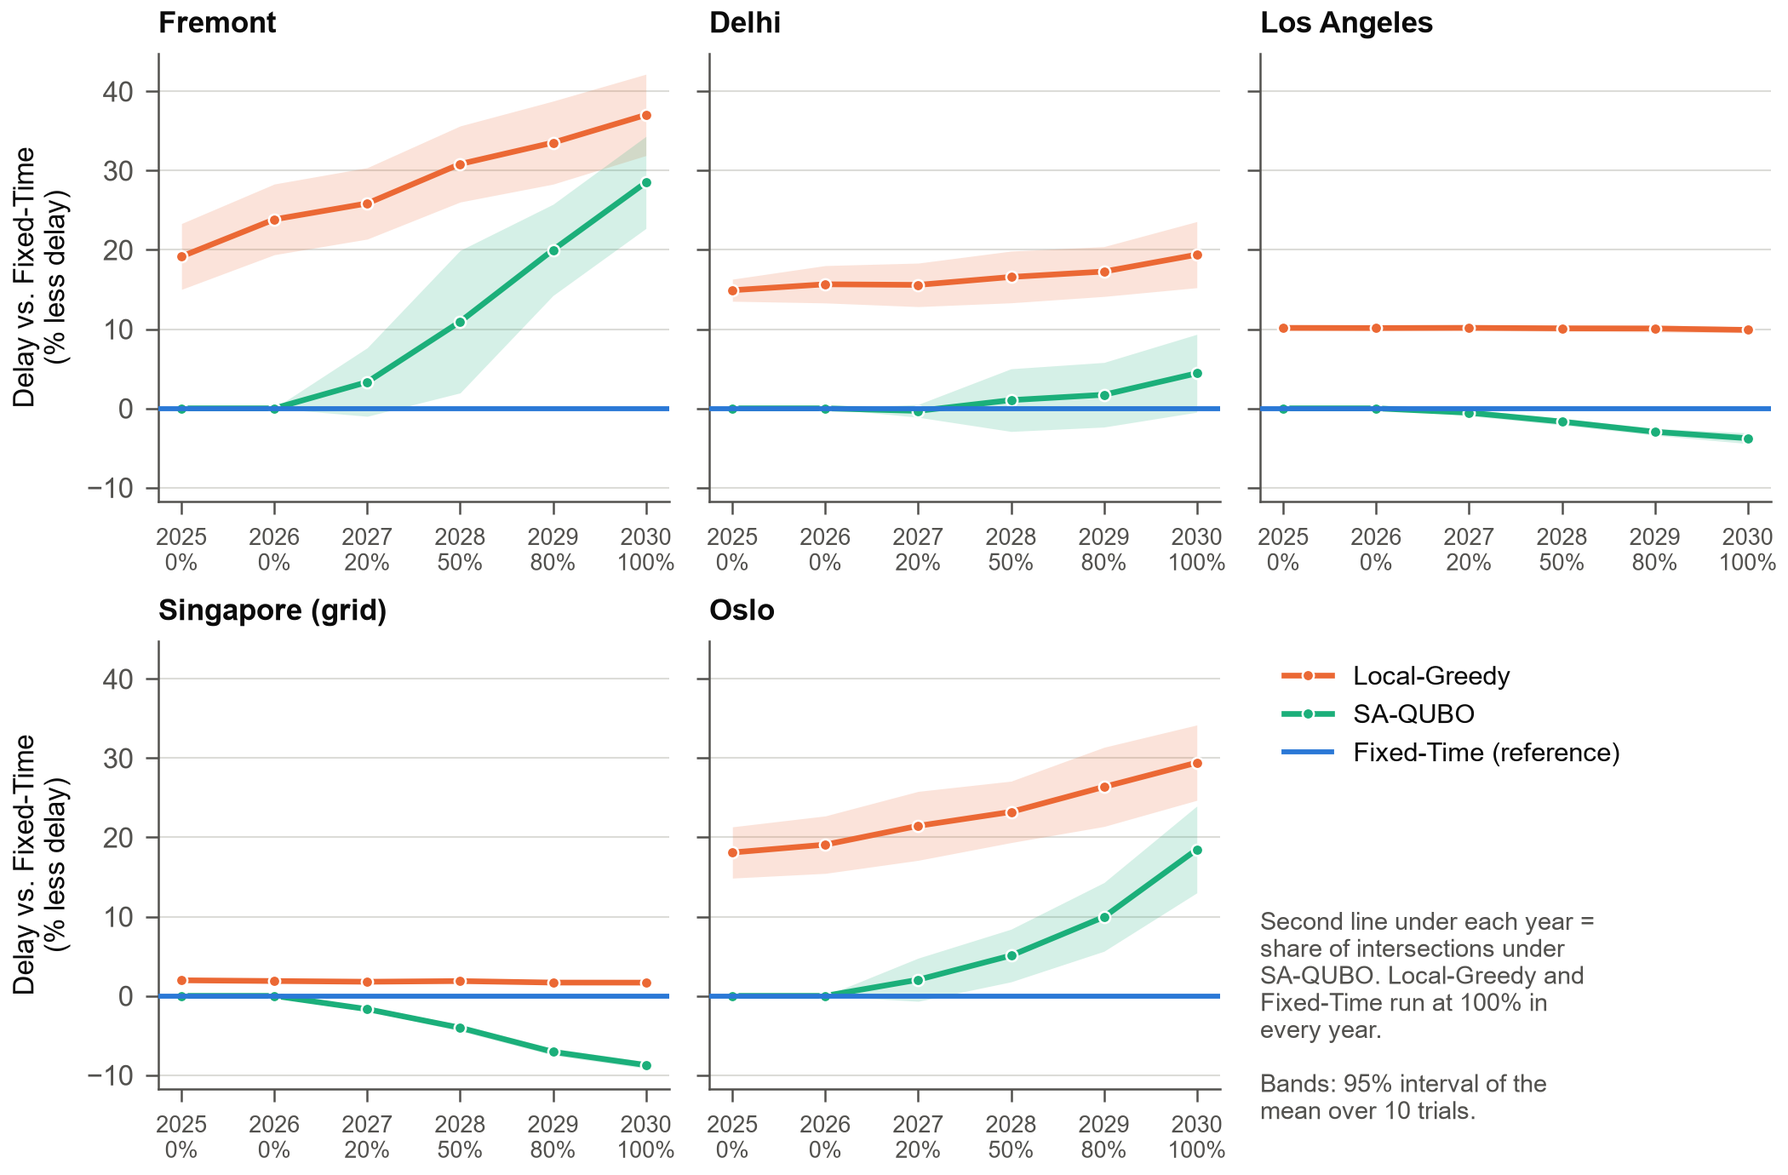
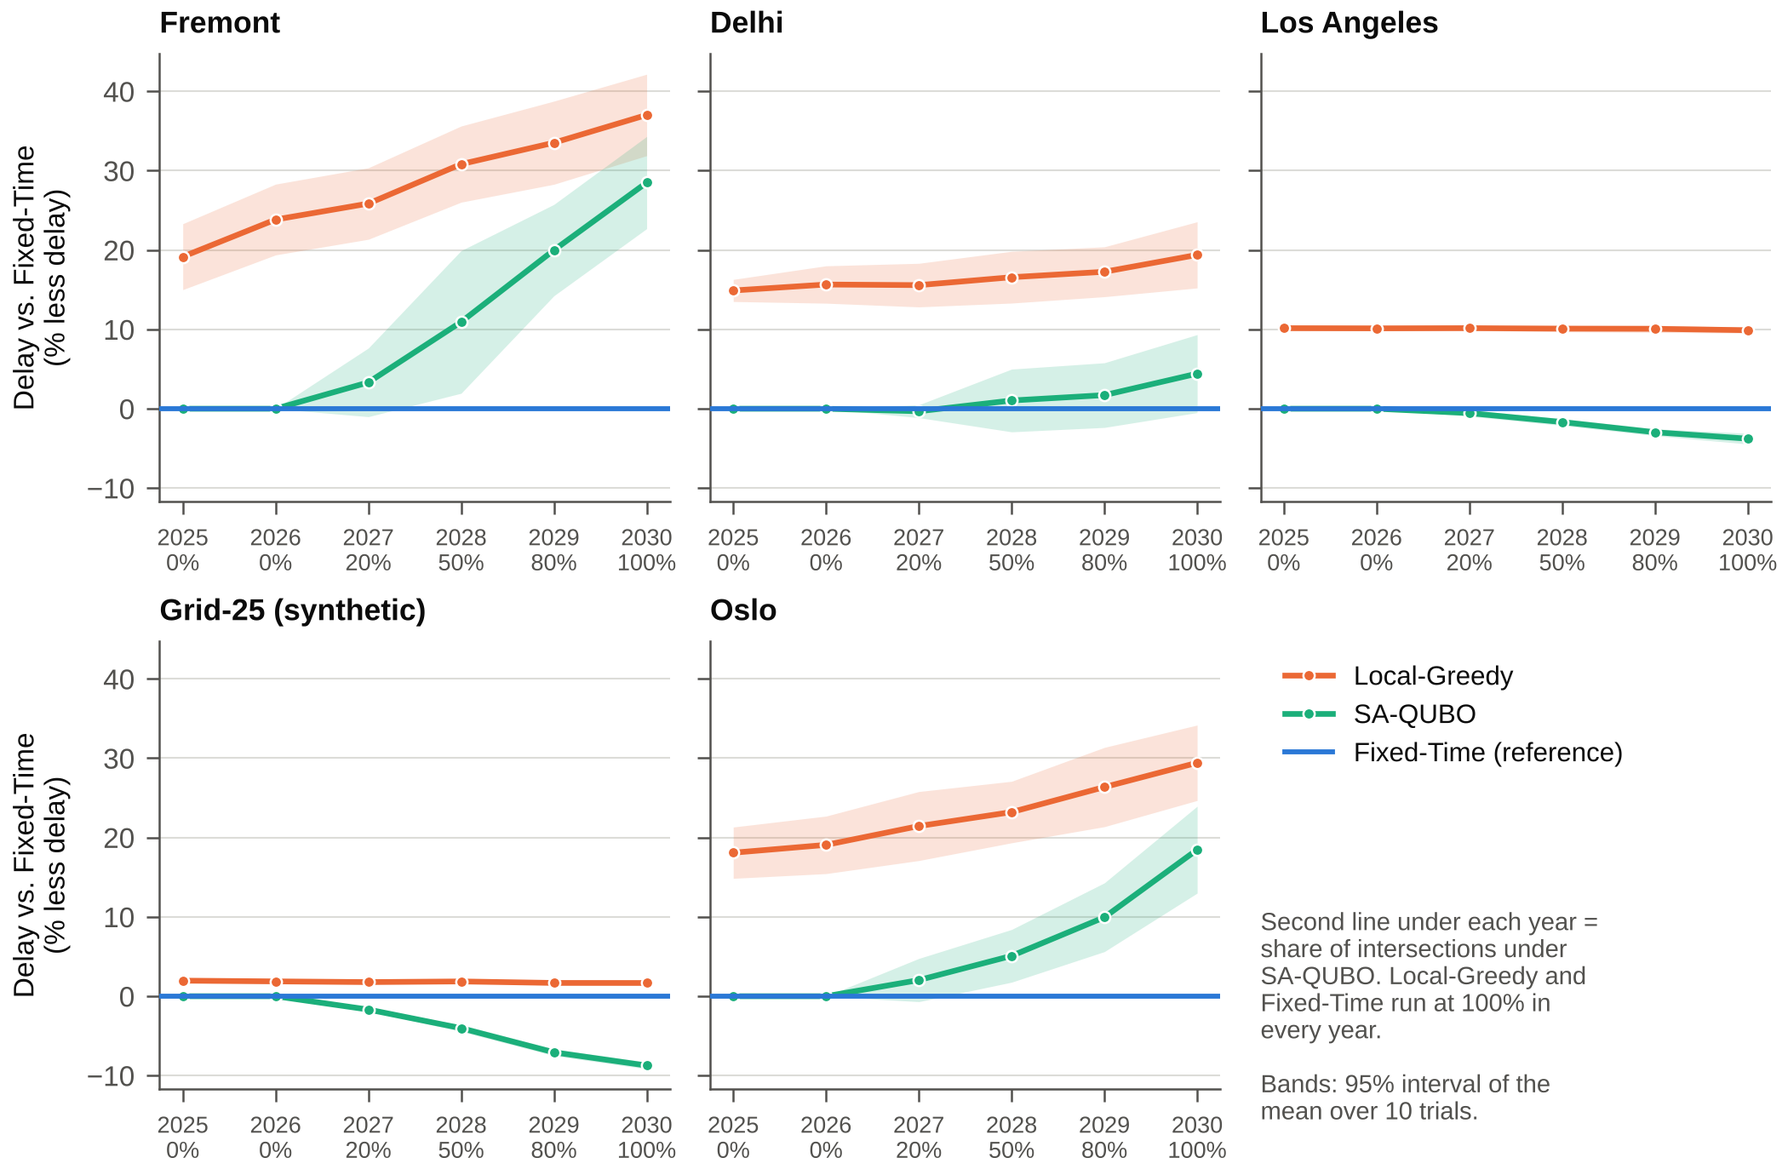
Add paper figures, scripts and attribution; clean up superseded health material
- Replace figures_paper/ with regenerated figures (fifth network labelled
  "Grid-25 (synthetic)", not Singapore)
- Add make_figures.py, paper_numbers.py, verify_headline.py (run from repo root,
  read sim_10seeds/results.csv)
- Fix stale lines in sim_10seeds/README.md and RESULTS.md
- README: OpenStreetMap ODbL credit, note on pooled vs per-trial percentages
  (29.3/19.2/4.9 vs 28.5/18.5/4.4), mark the old description as superseded
- Remove figures/fig11_health_impact.png and fig13_pollution_vs_benefit.png

diff --git a/make_figures.py b/make_figures.py
@@ -1,0 +1,131 @@
+"""Makes the two paper figures from sim_10seeds/results.csv.
+
+Figure 1: 2030 delay by network and controller (a) and % less delay than Fixed-Time (b).
+Figure 2: % less delay than Fixed-Time in the same year, 2025-2030 (adoption ramp), one panel per network.
+
+Run from the repo root:  python make_figures.py   (needs matplotlib and numpy)
+Output: figures_paper/Figure1_main_comparison_2030.png, Figure2_adoption_by_year.png (300 dpi PNG)
+
+Percent method: for each trial, 100 * (Fixed - X) / Fixed using delay in
+vehicle-seconds; then the mean over trials with a 95% t-interval. Positive = less delay than Fixed-Time.
+"""
+import csv, math, statistics as st
+from collections import defaultdict
+from pathlib import Path
+
+import matplotlib
+matplotlib.use("Agg")
+import matplotlib.pyplot as plt
+import numpy as np
+
+HERE = Path(__file__).resolve().parent
+SIM = HERE / "sim_10seeds"
+OUT = HERE / "figures_paper"
+OUT.mkdir(exist_ok=True)
+
+CITIES = ["Fremont", "Delhi", "Los Angeles", "Singapore", "Oslo"]
+# The fifth network is the synthetic 5x5 fallback grid (the OpenStreetMap download for Singapore failed), so it is
+# labelled Grid-25, never Singapore. "Singapore" is only the key used in results.csv.
+LABELS = ["Fremont", "Delhi", "Los Angeles", "Grid-25\n(synthetic)", "Oslo"]
+SHORT = ["Fremont", "Delhi", "Los Angeles", "Grid-25 (synthetic)", "Oslo"]
+CTRL = ["Fixed-Time", "Local-Greedy", "SA-QUBO"]
+# first three slots of the validated categorical palette (all-pairs CVD and normal-vision checks pass)
+COLOR = {"Fixed-Time": "#2a78d6", "Local-Greedy": "#eb6834", "SA-QUBO": "#1baf7a"}
+INK, INK2, GRID = "#0b0b0b", "#52514e", "#dcdcd8"
+ADOPT = {2025: "0%", 2026: "0%", 2027: "20%", 2028: "50%", 2029: "80%", 2030: "100%"}
+
+rows = list(csv.DictReader(open(SIM / "results.csv")))
+NT = len({r["trial"] for r in rows})
+T975 = {2: 4.302652729911275, 9: 2.2621571627409915}[NT - 1]
+g = defaultdict(list)
+for r in rows:
+    g[(r["city"], int(r["year"]), r["controller"])].append(r)
+
+
+def delay(city, year, ctrl):
+    """delay in vehicle-hours per run, one value per trial (sorted by trial)."""
+    return np.array([float(r["delay_vehicle_seconds"]) / 3600 for r in sorted(g[(city, year, ctrl)], key=lambda r: int(r["trial"]))])
+
+
+def less_than_fixed(city, year, ctrl):
+    f, x = delay(city, year, "Fixed-Time"), delay(city, year, ctrl)
+    return 100 * (f - x) / f
+
+
+def mean_ci(a):
+    a = np.asarray(a, dtype=float)
+    return a.mean(), T975 * a.std(ddof=1) / math.sqrt(len(a))
+
+
+plt.rcParams.update({
+    "font.family": ["Arial", "Liberation Sans", "DejaVu Sans"], "font.size": 8, "axes.labelsize": 8, "axes.titlesize": 8.5,
+    "axes.edgecolor": INK2, "axes.labelcolor": INK, "xtick.color": INK2, "ytick.color": INK2, "text.color": INK,
+    "axes.spines.top": False, "axes.spines.right": False, "axes.linewidth": 0.6,
+    "xtick.major.width": 0.6, "ytick.major.width": 0.6, "savefig.dpi": 300, "figure.dpi": 100,
+    "axes.facecolor": "white", "figure.facecolor": "white", "legend.frameon": False,
+})
+
+
+def style(ax):
+    ax.grid(axis="y", color=GRID, lw=0.5)
+    ax.set_axisbelow(True)
+
+
+# ------------------------------------------------------------------ Figure 1
+fig, axs = plt.subplots(1, 2, figsize=(7.0, 3.1), gridspec_kw={"width_ratios": [1.05, 1]}, layout="constrained")
+
+ax = axs[0]
+w = 0.26
+for k, c in enumerate(CTRL):
+    stats = [mean_ci(delay(city, 2030, c)) for city in CITIES]
+    ax.bar(np.arange(5) + (k - 1) * w, [s[0] for s in stats], w * 0.92, yerr=[s[1] for s in stats],
+           color=COLOR[c], label=c, error_kw=dict(lw=0.7, capsize=1.5, capthick=0.7, ecolor=INK2), zorder=3)
+ax.set_xticks(range(5), LABELS, fontsize=7)
+ax.set_ylabel("Delay per 12-hour run (vehicle-hours)")
+ax.set_title("(a) Delay, 2030", loc="left", fontweight="bold")
+ax.legend(fontsize=7.5, loc="upper center", bbox_to_anchor=(0.47, 1.0), handlelength=1.2)
+style(ax)
+
+ax = axs[1]
+w = 0.34
+for k, c in enumerate(["Local-Greedy", "SA-QUBO"]):
+    stats = [mean_ci(less_than_fixed(city, 2030, c)) for city in CITIES]
+    ax.bar(np.arange(5) + (k - 0.5) * w, [s[0] for s in stats], w * 0.92, yerr=[s[1] for s in stats],
+           color=COLOR[c], label=c, error_kw=dict(lw=0.7, capsize=1.5, capthick=0.7, ecolor=INK2), zorder=3)
+ax.axhline(0, color=INK2, lw=0.7, zorder=4)
+ax.set_xticks(range(5), LABELS, fontsize=7)
+ax.set_ylabel("Delay vs. Fixed-Time (% less delay)")
+ax.set_title("(b) Change vs. Fixed-Time, 2030", loc="left", fontweight="bold")
+ax.legend(fontsize=7.5, loc="upper right", handlelength=1.2)
+style(ax)
+fig.savefig(OUT / "Figure1_main_comparison_2030.png")
+plt.close(fig)
+
+# ------------------------------------------------------------------ Figure 2
+years = list(range(2025, 2031))
+fig, axs = plt.subplots(2, 3, figsize=(7.0, 4.6), sharey=True, layout="constrained")
+flat = axs.ravel()
+for i, city in enumerate(CITIES):
+    ax = flat[i]
+    for c in ["Local-Greedy", "SA-QUBO"]:
+        st_ = [mean_ci(less_than_fixed(city, y, c)) for y in years]
+        m = np.array([s[0] for s in st_])
+        h = np.array([s[1] for s in st_])
+        ax.fill_between(years, m - h, m + h, color=COLOR[c], alpha=0.18, lw=0, zorder=2)
+        ax.plot(years, m, color=COLOR[c], lw=1.6, marker="o", ms=3.2, mec="white", mew=0.6, zorder=3, label=c)
+    ax.axhline(0, color=COLOR["Fixed-Time"], lw=1.4, zorder=3, label="Fixed-Time (reference)")
+    ax.set_xticks(years, [f"{y}\n{ADOPT[y]}" for y in years], fontsize=6.5)
+    ax.set_title(SHORT[i], loc="left", fontweight="bold")
+    style(ax)
+    if i % 3 == 0:
+        ax.set_ylabel("Delay vs. Fixed-Time\n(% less delay)")
+ax = flat[5]
+ax.axis("off")
+handles, labels = flat[0].get_legend_handles_labels()
+ax.legend(handles, labels, loc="upper left", fontsize=7.5, handlelength=1.8)
+ax.text(0.0, 0.40, f"Second line under each year =\nshare of intersections under\nSA-QUBO. Local-Greedy and\nFixed-Time run at 100% in\nevery year.\n\nBands: 95% interval of the\nmean over {NT} trials.",
+        transform=ax.transAxes, fontsize=7, color=INK2, va="top")
+fig.savefig(OUT / "Figure2_adoption_by_year.png")
+plt.close(fig)
+
+print("wrote", sorted(p.name for p in OUT.glob("*.png")), f"(n = {NT} trials, t = {T975:.3f})")

diff --git a/paper_numbers.py b/paper_numbers.py
@@ -1,0 +1,131 @@
+"""Every number in the paper's results tables, computed from sim_10seeds/results.csv (900 runs).
+
+Pure standard library. Run:  python paper_numbers.py
+Convention: "% less delay than Fixed-Time", positive = better, mean of per-trial values.
+The fifth network is stored in results.csv under the key "Singapore". It is the synthetic 5x5 fallback grid
+(the OpenStreetMap download failed), so it is reported as "Grid-25 (synthetic)".
+"""
+import csv, itertools, math, statistics as st
+from pathlib import Path
+
+HERE = Path(__file__).resolve().parent
+CITIES = ["Fremont", "Delhi", "Los Angeles", "Singapore", "Oslo"]
+NAME = {"Singapore": "Grid-25 (synthetic)"}
+CTRL = ["Fixed-Time", "Local-Greedy", "SA-QUBO"]
+YEARS = list(range(2025, 2031))
+T975 = 2.2621571627409915  # t, 9 degrees of freedom
+
+rows = list(csv.DictReader(open(HERE / "sim_10seeds" / "results.csv")))
+D, W, A = {}, {}, {}
+for r in rows:
+    k = (r["city"], int(r["year"]), r["controller"], int(r["trial"]))
+    D[k] = float(r["delay_vehicle_seconds"])
+    W[k] = float(r["wait_seconds_per_injected_vehicle"])
+    A[k] = float(r["arrivals"])
+N = len({k[3] for k in D})
+assert len(rows) == 900 and N == 10
+
+
+def delay_h(city, year, ctrl):
+    return [D[(city, year, ctrl, t)] / 3600 for t in range(N)]
+
+
+def less(city, year, ctrl, base="Fixed-Time"):
+    """per-trial % less delay than base (positive = ctrl better)"""
+    return [100 * (D[(city, year, base, t)] - D[(city, year, ctrl, t)]) / D[(city, year, base, t)] for t in range(N)]
+
+
+def extra(city, year, ctrl="SA-QUBO", base="Local-Greedy"):
+    """per-trial % more delay than base (positive = ctrl worse)"""
+    return [100 * (D[(city, year, ctrl, t)] - D[(city, year, base, t)]) / D[(city, year, base, t)] for t in range(N)]
+
+
+def mean_ci(v):
+    m = st.mean(v)
+    h = T975 * st.stdev(v) / math.sqrt(len(v))
+    return m, m - h, m + h
+
+
+def sign_p(v):
+    """exact two-sided sign test"""
+    pos, n = sum(x > 0 for x in v), sum(x != 0 for x in v)
+    k = min(pos, n - pos)
+    return min(1.0, 2 * sum(math.comb(n, i) for i in range(k + 1)) / 2 ** n)
+
+
+def wilcoxon_p(v):
+    """exact two-sided Wilcoxon signed-rank test (no zeros or ties expected with continuous delays)"""
+    v = [x for x in v if x != 0]
+    order = sorted(range(len(v)), key=lambda i: abs(v[i]))
+    rank = {i: r + 1 for r, i in enumerate(order)}
+    wplus = sum(rank[i] for i in range(len(v)) if v[i] > 0)
+    total = len(v) * (len(v) + 1) / 2
+    obs = abs(wplus - total / 2)
+    hits = sum(abs(sum(r for r, s in zip(range(1, len(v) + 1), signs) if s) - total / 2) >= obs - 1e-12
+               for signs in itertools.product([0, 1], repeat=len(v)))
+    return hits / 2 ** len(v)
+
+
+def table3():
+    out = []
+    for c in CITIES:
+        ms = {k: (st.mean(delay_h(c, 2030, k)), st.stdev(delay_h(c, 2030, k)),
+                  st.mean(W[(c, 2030, k, t)] for t in range(N))) for k in CTRL}
+        out.append(dict(city=NAME.get(c, c), stats=ms, sa=mean_ci(less(c, 2030, "SA-QUBO")),
+                        wins_greedy=sum(x > 0 for x in less(c, 2030, "Local-Greedy")),
+                        wins_sa=sum(x > 0 for x in less(c, 2030, "SA-QUBO"))))
+    return out
+
+
+def table4():
+    out = []
+    for c in CITIES:
+        sa = less(c, 2030, "SA-QUBO")
+        out.append(dict(city=NAME.get(c, c), greedy=mean_ci(less(c, 2030, "Local-Greedy")), sa=mean_ci(sa),
+                        extra=mean_ci(extra(c, 2030)), sign=sign_p(sa), wilcoxon=wilcoxon_p(sa),
+                        greedy_beats_sa=sum(x > 0 for x in extra(c, 2030))))
+    return out
+
+
+def by_year(city, ctrl):
+    return [st.mean(less(city, y, ctrl)) for y in YEARS]
+
+
+def fixed_growth(city):
+    """(Fixed-Time delay 2030 / 2025, vehicles injected 2030 / 2025), means over trials"""
+    d = st.mean(delay_h(city, 2030, "Fixed-Time")) / st.mean(delay_h(city, 2025, "Fixed-Time"))
+    a = st.mean(A[(city, 2030, "Fixed-Time", t)] for t in range(N)) / st.mean(A[(city, 2025, "Fixed-Time", t)] for t in range(N))
+    return d, a
+
+
+def unanimous_comparisons():
+    """of the 15 paired 2030 comparisons (5 networks x 3 controller pairs), how many agree in all 10 trials"""
+    n = 0
+    for c in CITIES:
+        for v in (less(c, 2030, "Local-Greedy"), less(c, 2030, "SA-QUBO"), extra(c, 2030)):
+            n += sum(x > 0 for x in v) in (0, N)
+    return n
+
+
+if __name__ == "__main__":
+    print(f"runs: {len(rows)}; vehicles injected over all runs: {sum(A.values()):,.0f}")
+    print("\nTable 3 (2030, 100% adoption): delay veh-h mean +/- SD | delay per vehicle (s)")
+    for r in table3():
+        s = r["stats"]
+        print(f"  {r['city']:20s}", " | ".join(f"{k}: {s[k][0]:,.0f} +/- {s[k][1]:.0f}, {s[k][2]:.1f} s" for k in CTRL),
+              f"| less delay than Fixed-Time in {r['wins_greedy']}/10 (Local-Greedy), {r['wins_sa']}/10 (SA-QUBO)")
+    print("\nTable 4 (2030): % less delay than Fixed-Time [95% CI]; SA-QUBO extra delay vs Local-Greedy; exact p (SA-QUBO vs Fixed-Time)")
+    f = lambda t: f"{t[0]:+.1f} [{t[1]:+.1f}, {t[2]:+.1f}]"
+    for r in table4():
+        print(f"  {r['city']:20s} Local-Greedy {f(r['greedy'])} | SA-QUBO {f(r['sa'])} | extra {f(r['extra'])} | "
+              f"sign p={r['sign']:.5f} Wilcoxon p={r['wilcoxon']:.5f} | Local-Greedy beats SA-QUBO in {r['greedy_beats_sa']}/10")
+    print(f"\nLocal-Greedy beats SA-QUBO in {sum(r['greedy_beats_sa'] for r in table4())} of {5 * N} paired 2030 trials")
+    print(f"comparisons unanimous across 10 trials: {unanimous_comparisons()} of 15")
+    print("\n% less delay than Fixed-Time by year, 2025-2030 (SA-QUBO adoption 0, 0, 20, 50, 80, 100%)")
+    for c in CITIES:
+        print(f"  {NAME.get(c, c):20s} SA-QUBO", [round(x, 1) + 0.0 for x in by_year(c, "SA-QUBO")],
+              " Local-Greedy", [round(x, 1) for x in by_year(c, "Local-Greedy")])
+    print("\nFixed-Time delay growth 2025 -> 2030 vs demand growth")
+    for c in CITIES:
+        d, a = fixed_growth(c)
+        print(f"  {NAME.get(c, c):20s} delay x{d:.2f}, vehicles x{a:.2f}")

diff --git a/verify_headline.py b/verify_headline.py
@@ -1,0 +1,41 @@
+"""Independent spot-check of the paper's headline numbers from sim_10seeds/results.csv.
+Run from the repo root: python verify_headline.py
+"""
+import csv, collections, statistics as st
+
+rows = list(csv.DictReader(open("sim_10seeds/results.csv")))
+print("rows:", len(rows))
+d = {}
+for r in rows:
+    d[(r["city"], int(r["year"]), r["controller"], int(r["trial"]))] = float(r["delay_vehicle_seconds"])
+cities = sorted({k[0] for k in d})
+T = 2.262  # t, df=9
+
+
+def pct_less(city, year, ctrl, base):
+    v = []
+    for t in range(10):
+        b = d[(city, year, base, t)]
+        v.append(100 * (b - d[(city, year, ctrl, t)]) / b)
+    m = st.mean(v)
+    h = T * st.stdev(v) / 10 ** 0.5
+    return m, m - h, m + h, sum(x > 0 for x in v)
+
+
+print("\n2030 % less delay (mean, 95% lo, hi, wins/10)")
+for c in cities:
+    for ctrl in ("Local-Greedy", "SA-QUBO"):
+        m, lo, hi, w = pct_less(c, 2030, ctrl, "Fixed-Time")
+        print(f"{c:12s} {ctrl:12s} vs Fixed  {m:6.1f} ({lo:6.1f},{hi:6.1f}) {w}/10")
+    g = sum(d[(c, 2030, "SA-QUBO", t)] > d[(c, 2030, "Local-Greedy", t)] for t in range(10))
+    print(f"{c:12s} Greedy beats QUBO in {g}/10 trials")
+
+print("\n2030 mean delay, vehicle-hours")
+for c in cities:
+    print(c, [round(st.mean(d[(c, 2030, k, t)] for t in range(10)) / 3600) for k in ("Fixed-Time", "Local-Greedy", "SA-QUBO")])
+
+print("\nFremont SA-QUBO % less delay by year")
+for y in range(2025, 2031):
+    print(y, round(pct_less("Fremont", y, "SA-QUBO", "Fixed-Time")[0], 1))
+
+print("\ntotal vehicles injected:", f"{sum(float(r['arrivals']) for r in rows):,.0f}")

diff --git a/README.md b/README.md
@@ -4,21 +4,21 @@
 >
 > - **Local-Greedy beat SA-QUBO in 50 of 50 paired runs** (5 networks x 10 seeds). This is a negative result for the QUBO controller.
 > - **No quantum hardware was used.** "SA-QUBO" is classical simulated annealing (dwave-neal) solving a QUBO. Nothing here shows a quantum advantage.
-> - SA-QUBO beat Fixed-Time clearly only in Fremont (28.5% less delay) and Oslo (18.5%). Delhi is inconclusive (4.4%, 6 of 10 seeds); Los Angeles is -3.8% and the synthetic 5x5 grid ("Singapore") is -8.7%.
+> - SA-QUBO beat Fixed-Time clearly only in Fremont (28.5% less delay) and Oslo (18.5%). Delhi is inconclusive (4.4%, 6 of 10 seeds); Los Angeles is -3.8% and the synthetic 5x5 grid ("Grid-25 (synthetic)" in the paper) is -8.7%. That grid is not real Singapore; `results.csv` and the code only use "Singapore" as its internal key.
 > - **Superseded:** the 3-trial, 14-city results, `phase_transition.py`, the city-tour videos and the JSON results at the repo root. They came from an earlier, biased toy model; claims like "QUBO wins in most cities" or a "phase transition" should not be cited. Their emission factors were also roughly 14x (CO2) and 15.7x (fuel) too small, and the CO2/NOx/fuel percentages simply equal the delay percentage. Use delay (vehicle-hours) as the metric.
-> - Paper figures: `figures_paper/` (Figure 1 and Figure 2). Reproduce with `sim_10seeds/` (see its README and METHODS.md).
+> - Paper figures: `figures_paper/` (Figure 1 and Figure 2). The paper points readers to `sim_10seeds/` for the code and data (see its README and METHODS.md). From the repo root, `make_figures.py` rebuilds the figures, `paper_numbers.py` prints the headline numbers and `verify_headline.py` re-checks them, all from `sim_10seeds/results.csv`.
+> - Map data: © OpenStreetMap contributors, available under the Open Database License (ODbL), https://www.openstreetmap.org/copyright. `osm_cache/` and `sim_10seeds/osm_cache/` hold cached extracts.
 >
-> Convention: "% less delay than Fixed-Time, positive = better, mean of per-trial values". Whether SA-QUBO could overtake Greedy under other QUBO weights, demand levels, real signal data, larger or more coupled networks, or real quantum hardware is untested; those are hypotheses, not findings.
+> Convention: "% less delay than Fixed-Time, positive = better, mean of per-trial values". `sim_10seeds/RESULTS.md` shows 29.3% / 19.2% / 4.9% (Fremont / Oslo / Delhi) because it pools the trials first; the paper averages per-trial values (28.5% / 18.5% / 4.4%). Both are correct. Whether SA-QUBO could overtake Greedy under other QUBO weights, demand levels, real signal data, larger or more coupled networks, or real quantum hardware is untested; those are hypotheses, not findings.
 
-A simulation project comparing three traffic-signal controllers — Fixed-Time,
+*Superseded description of the earlier version (see the banner above):* a
+simulation project comparing three traffic-signal controllers — Fixed-Time,
 Local-Greedy, and a QUBO-based controller solved with simulated annealing
-("QA-QUBO") — across real OpenStreetMap road networks in cities on every
-populated continent, 2025-2030.
+("QA-QUBO") — across OpenStreetMap road networks in 14 cities, 2025-2030.
 
-`DATA_SOURCES.md` documents the source and confidence level for every
-real-world statistic used (PM2.5, congestion index). Several are marked
-`approximate` (an older baseline year, or a secondary source rather than
-the primary report).
+`DATA_SOURCES.md` documents the sources of the real-world statistics used by
+that earlier version (including PM2.5 and congestion index). The current
+paper does not use them and makes no health or PM2.5 claims.
 
 ## Framing notes
 
@@ -40,6 +40,9 @@ sim_10seeds/             CURRENT. The 10-seed run behind the paper: 5 networks x
                           3 controllers x 10 seeds = 900 runs. results.csv has every run;
                           README.md, METHODS.md and RESULTS.md explain how to reproduce it.
 figures_paper/           CURRENT. Figure 1 (2030 comparison) and Figure 2 (adoption by year)
+make_figures.py          CURRENT. Rebuilds the two paper figures from sim_10seeds/results.csv
+paper_numbers.py         CURRENT. Prints the paper's headline numbers from results.csv
+verify_headline.py       CURRENT. Independent re-check of the headline numbers
 
 Everything below is the earlier, superseded version, kept for history:
 
@@ -73,8 +76,9 @@ city_tour_videos.py      Per-city animation: one MP4 per city, real curved OSM r
 fix_figures.py           Regenerates the same-year-corrected comparison figures
 plot_grid_qubo_diagram.py  QUBO structure diagram for a synthetic grid
 
-figures/                 Generated PNGs (city_tours/ subfolder holds the per-city MP4s,
-                          not tracked in git)
+figures/                 Generated PNGs from the superseded runs (city_tours/ subfolder holds
+                          the per-city MP4s, not tracked in git). The health-impact and
+                          pollution figures were removed: the paper makes no health claims.
 osm_cache/               Cached real road networks (tracked in git; avoids re-hitting
                           Overpass, which has been unreliable during development)
 city_results.json, world_results.json, network_scale_results.json, simulation_results.json
@@ -89,7 +93,7 @@ REFERENCES.md            16 independently-verified citations for the paper
 
 ```
 pip install -r requirements.txt
-python real_city_sim.py       # original 5-city run (writes uncorrected fig08/fig09 + fig10/fig11)
+python real_city_sim.py       # original 5-city run (writes uncorrected fig08/fig09 + fig10)
 python fix_figures.py         # run after real_city_sim.py -- overwrites fig08/fig09 with the
                                # same-year-comparison corrected versions (see "Framing notes")
 python world_city_sim.py      # 14-city world run (imports real_city_sim, no need to run it first)

diff --git a/sim_10seeds/README.md b/sim_10seeds/README.md
@@ -28,6 +28,6 @@ The included cached networks make subsequent runs independent of OSM downloads. 
 - `METHODS.md`: assumptions, corrected equations and limitations.
 - `check_model.py`: objective algebra, vehicle conservation, matched inputs, and no-adoption checks.
 - `osm_cache/`: downloaded networks, simplified simulation network and provenance.
-- `figures/`: four 300-DPI figures, MP4 and animation preview.
+- The paper's two figures are in `../figures_paper/`; `../make_figures.py` regenerates them from `results.csv`.
 
 Read RESULTS.md and METHODS.md before using the graphics in a paper. The figures report sampled-network outcomes; none are whole-city estimates. Positive reduction means improvement; negative reduction means deterioration. No parameters were fitted to force QUBO to outperform the baselines.
